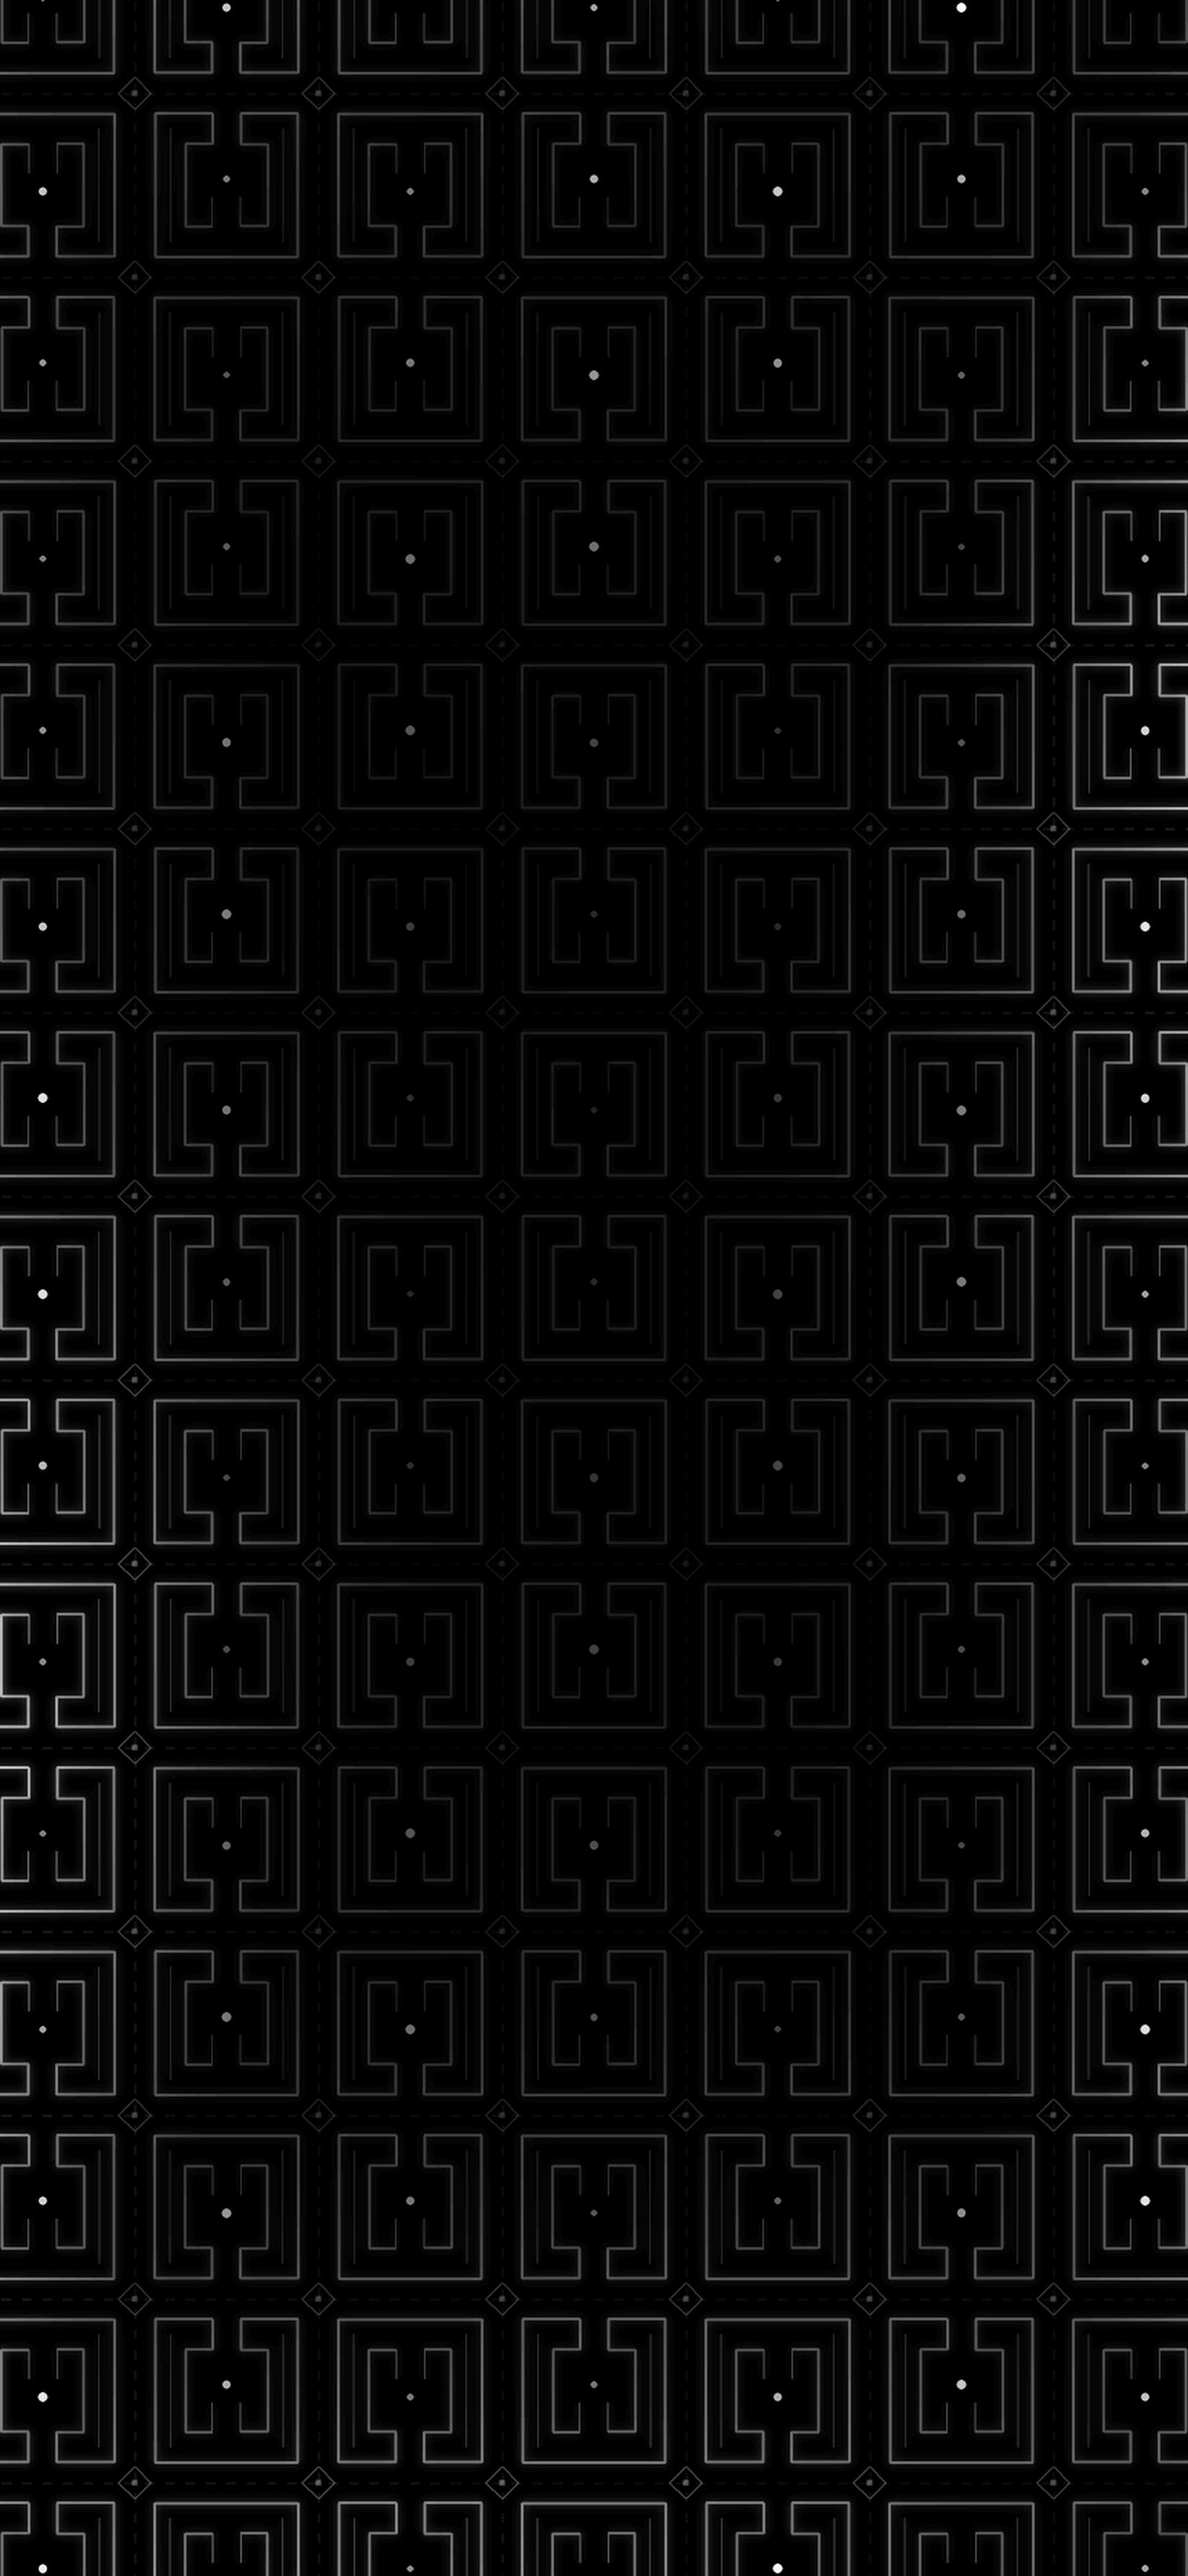
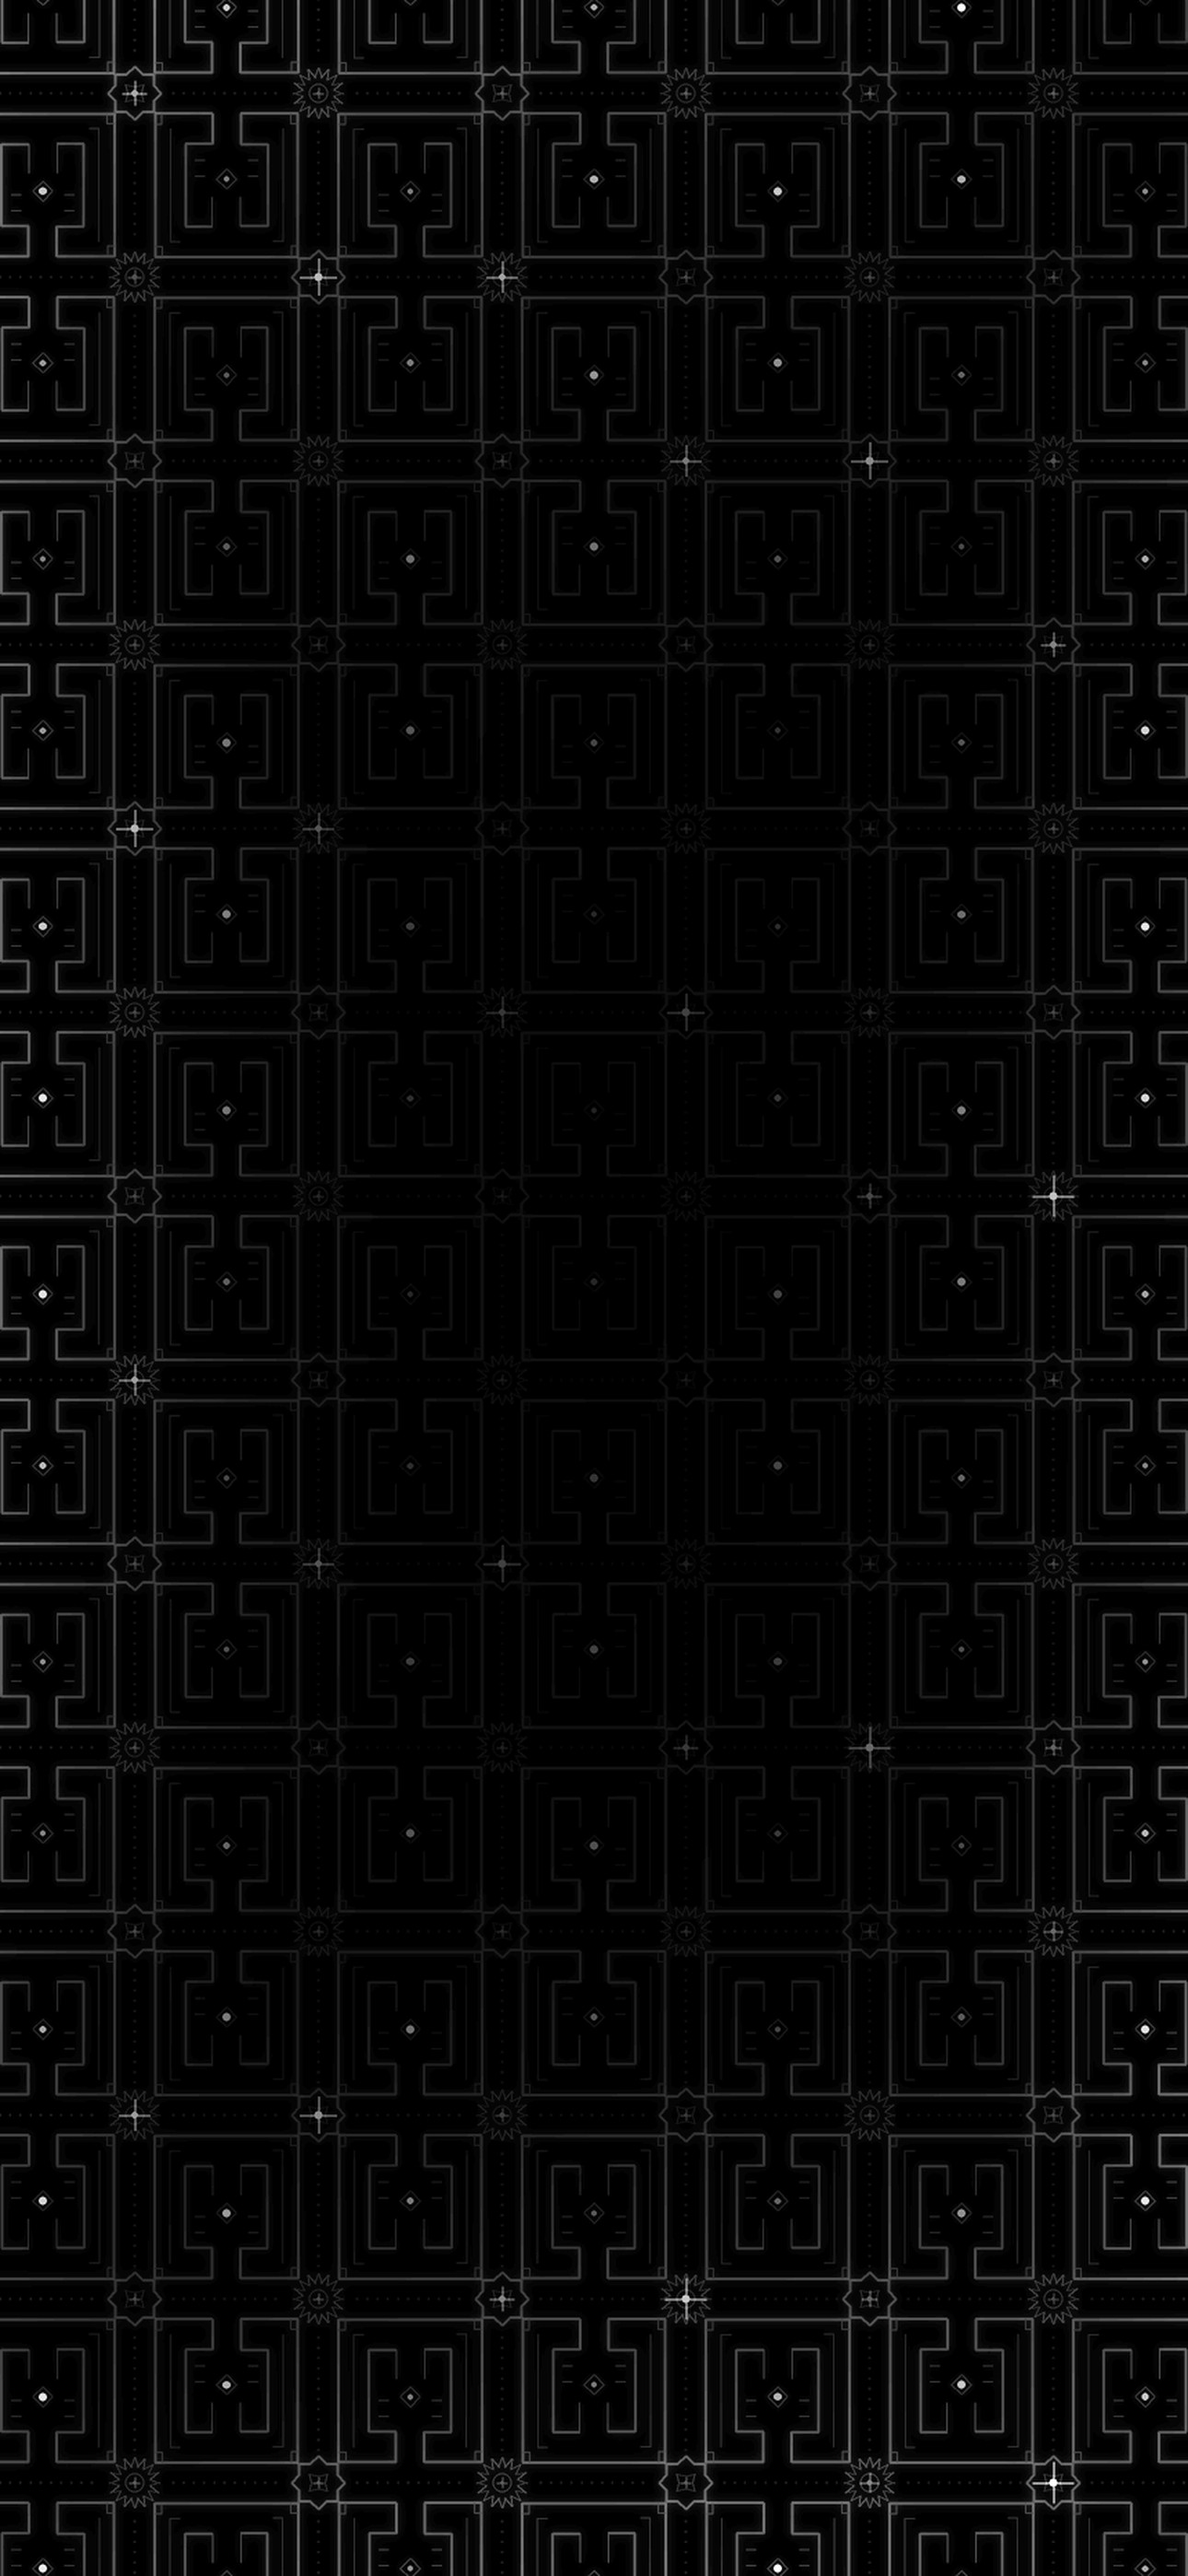
Kûfi: ışık süzmesini kaldır, yıldızlar ve daha zengin desen ekle
Kavşaklarda dönüşümlü sekiz ve on altı köşeli yıldızlar, pırıltılar,
köşe çentikleri, harf benzeri basamaklar ve noktalı cetvel izleri.

Claude-Session: https://claude.ai/code/session_0188rHyHdxZ451aQcetemD1N

diff --git a/kufi/kufi-felsefe.md b/kufi/kufi-felsefe.md
@@ -6,6 +6,8 @@ Kûfi, hat sanatının en geometrik biçimi olan murabba kûfiden doğar: harfle
 
 Renk tamamen yoktur. Zemin AMOLED ekranlarda pikselleri tamamen söndüren saf siyahtır (#000000), çizgiler kurşun grisinden kâğıt beyazına kadar uzanan tonlarda yavaşça parlayıp söner. Her hücrenin içinde tek bir beyaz nokta durur, hattatın kamışını ilk değdirdiği yer gibi. Desen kenarlarda belirgindir, ortaya doğru silinir ve sohbete yer açar.
 
-Desen durağan değildir. Çizgilerin üzerinden yavaşça geniş ve yumuşak bir ışık geçer, bir kandil ışığının kâğıtta gezinmesi gibi. Her çizginin etrafında hafif bir hale vardır, beyaz noktalar ekran boyunca sırayla nefes alıp verir. Hücrelerin arasında küçük, sabit baklavalar durur. Hücreler arasındaki ince kesik çizgiler, hattatın kâğıda çektiği cetvel izlerini hatırlatır.
+Hücreler yalnızca kapı ve direklerden ibaret değildir. Köşelerde basamaklı çentikler, odaların içinde harfleri andıran kısa basamak çizgileri, her merkezde küçük bir baklava vardır. Hücrelerin buluştuğu her kavşakta bir yıldız durur: sırayla iç içe iki kareden oluşan Selçuklu yıldızı ve on altı köşeli bir yıldız. Aralarındaki yolları ince noktalı cetvel izleri birleştirir.
+
+Desen sessizce yaşar. Beyaz noktalar ekran boyunca sırayla nefes alıp verir, yıldızların merkezinde ara ara küçük bir ışık pırıltısı belirip söner. Her çizginin etrafında hafif bir hale vardır.
 
 Vurgu da renkle değil parlaklıkla yapılır: en açık gri eylemi, orta gri seslenmeyi, saf beyaz bağlantıyı işaret eder. Sonuç, bir hattatın yıllarca aynı dik açıyı çizerek ulaştığı sadelik gibi hissettirmelidir: siyah, beyaz ve aradaki boşluk.

diff --git a/README.md b/README.md
@@ -22,6 +22,6 @@ Murabba kûfi hattından: is siyahı zemin, kâğıt beyazı ve kurşun grisi ka
 
 ![Kûfi önizleme](kufi/kufi-onizleme.png)
 
-Arka plan animasyonludur (GIF): çizgilerin üzerinden geçen yumuşak bir ışık, çizgilerin etrafında hafif bir hale ve nefes alan noktalar. İstemcin GIF oynatmazsa JSON'daki `background.url` sonundaki `kufi-arkaplan-v3.gif` kısmını `kufi-arkaplan.jpg` yap, aynı desenin durağan hâli gelir.
+Arka plan animasyonludur (GIF): kavşaklarda sırayla pırıldayan yıldızlar, nefes alan noktalar ve çizgilerin etrafında hafif bir hale. İstemcin GIF oynatmazsa JSON'daki `background.url` sonundaki `kufi-arkaplan-v4.gif` kısmını `kufi-arkaplan.jpg` yap, aynı desenin durağan hâli gelir.
 
 Tasarım felsefesi: [kufi/kufi-felsefe.md](kufi/kufi-felsefe.md)
